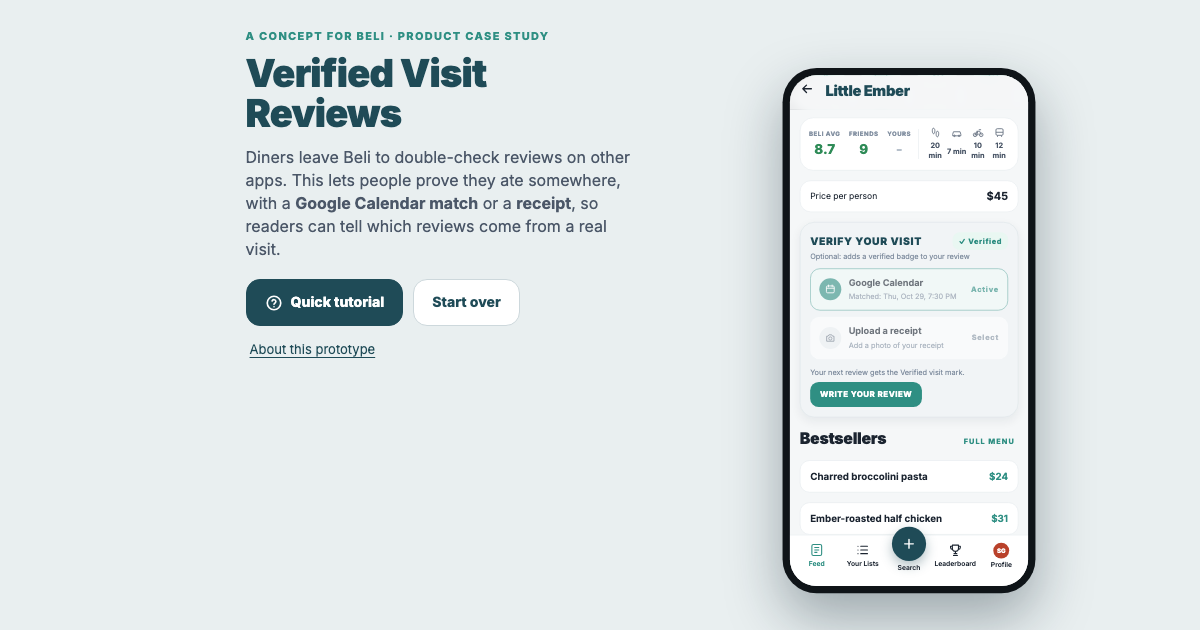
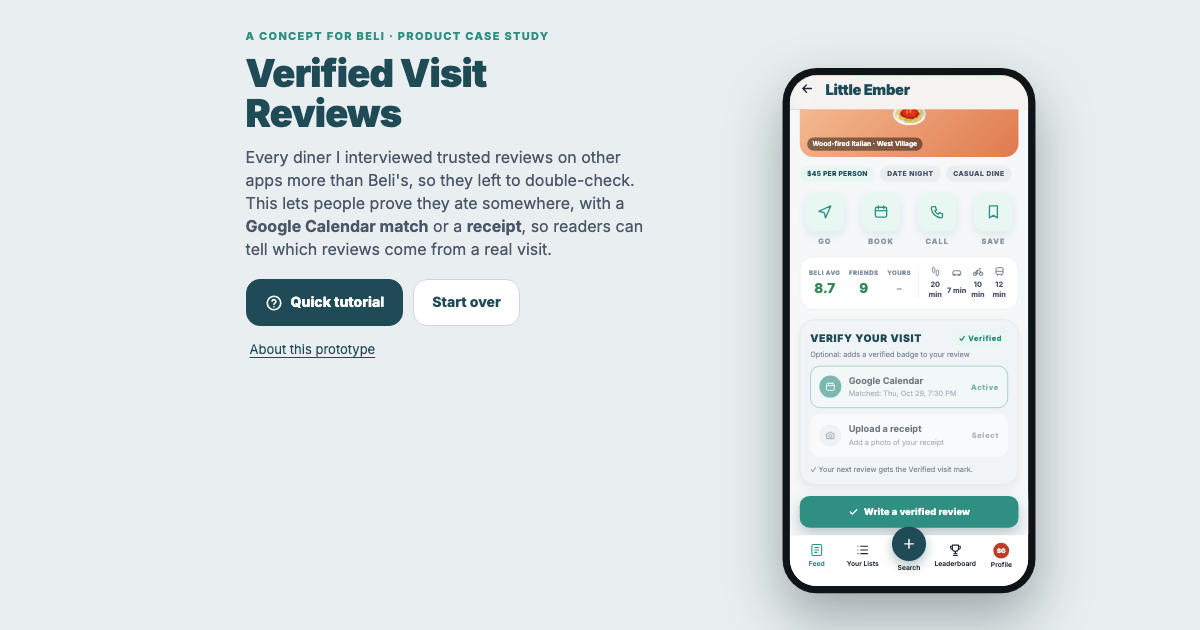
Beli: price in the tag row, always-visible Write a review button

diff --git a/index.html b/index.html
@@ -116,7 +116,11 @@ button:focus-visible, input:focus-visible, textarea:focus-visible, label:focus-w
 .hero { margin: 0 16px; height: 150px; border-radius: 22px; display: grid; place-items: center; font-size: 64px; position: relative; overflow: hidden; }
 .hero small { position: absolute; left: 12px; bottom: 10px; background: rgba(0,0,0,.45); color: #fff; font-size: 11px; font-weight: 600; border-radius: 99px; padding: 3px 9px; }
 .rbody { padding: 14px 16px 24px; display: grid; gap: 16px; }
-.chips { display: flex; gap: 8px; flex-wrap: wrap; }
+.chips { display: flex; gap: 8px; flex-wrap: nowrap; overflow-x: auto; scrollbar-width: none; margin: 0 -16px; padding: 0 16px; }
+.chips::-webkit-scrollbar { display: none; }
+.chip { flex: none; white-space: nowrap; }
+.chip.price-chip { background: var(--mint); color: var(--deep); letter-spacing: .04em; }
+.chip.na-chip { background: #fff; border: 1px dashed #cdd5db; color: var(--muted); }
 .chip { background: #eaeef1; color: #4b5768; border-radius: 99px; padding: 6px 12px; font-size: 11px; font-weight: 800; letter-spacing: .08em; text-transform: uppercase; }
 .sub { color: var(--muted); font-size: 13px; margin: -6px 0 0; }
 .sub b { color: var(--ink); }
@@ -163,6 +167,10 @@ button:focus-visible, input:focus-visible, textarea:focus-visible, label:focus-w
 .tbtn.ghost { background: #fff; color: var(--teal); border: 1px solid var(--mint-2); }
 .skiplink { border: 0; background: none; color: var(--muted); font-size: 12px; text-decoration: underline; padding: 6px 2px 0; }
 
+.rbar { position: sticky; bottom: 0; z-index: 7; padding: 10px 16px 12px; background: linear-gradient(to top, var(--bg) 70%, rgba(245,247,248,0)); }
+.rbtn { width: 100%; border: 0; border-radius: 16px; background: var(--deep); color: #fff; padding: 15px; font-size: 15px; font-weight: 800; letter-spacing: .02em; display: flex; align-items: center; justify-content: center; gap: 8px; box-shadow: 0 10px 22px rgba(31,75,87,.28); }
+.rbtn svg { width: 18px; height: 18px; }
+.rbtn.ok { background: var(--teal); }
 .menu-h { display: flex; justify-content: space-between; align-items: baseline; }
 .menu-h h3 { margin: 0; font-size: 26px; font-weight: 900; letter-spacing: -.02em; }
 .menu-h button { border: 0; background: none; color: var(--teal); font-size: 12px; font-weight: 800; letter-spacing: .14em; }
@@ -522,9 +530,9 @@ function verifyCard(r) {
   const rcRow = '<button class="opt' + (v && !reviewed && v.method === 'receipt' ? ' active' : '') + '" type="button" data-receipt' + (v && !reviewed ? ' disabled' : '') + '><span class="oi">' + IC.cam + '</span><span><b>Upload a receipt</b><small>' + (v && !reviewed && v.method === 'receipt' ? 'Matched: ' + fmt(v.date) : 'Add a photo of your receipt') + '</small></span><span class="act">' + (v && !reviewed && v.method === 'receipt' ? 'Active' : 'Select') + '</span></button>';
   const state = v && !reviewed ? '<span class="state ok">✓ Verified</span>' : '<span class="state">Unverified</span>';
   let after = '';
-  if (v && !reviewed) after = '<div class="after"><small>Your next review gets the Verified visit mark.</small><button class="tbtn" type="button" data-review>Write your review</button></div>';
-  else if (reviewed) after = '<div class="after"><small>✓ Your ' + fmt(v.date) + ' visit is reviewed. Each visit can verify one review.</small></div><button class="skiplink" type="button" data-review>Write another review without verifying</button>';
-  else after = '<button class="skiplink" type="button" data-review>Skip, write a review without verifying</button>';
+  if (v && !reviewed) after = '<div class="after"><small>✓ Your next review gets the Verified visit mark.</small></div>';
+  else if (reviewed) after = '<div class="after"><small>✓ Your ' + fmt(v.date) + ' visit is reviewed. Each visit can verify one review.</small></div>';
+  else after = '';
   return '<div class="verify" id="verify"><div class="head"><h4>Verify your visit</h4>' + state + '</div><p class="vsub">Optional: adds a verified badge to your review</p>' + calRow + rcRow + after + '</div>';
 }
 function renderRest() {
@@ -535,18 +543,21 @@ function renderRest() {
   const yours = mine.length ? { 'Liked it': '8.7', 'It was fine': '5.6', "Didn't like it": '2.3' }[mine[0].rating] : '-';
   $('#v-rest').innerHTML = '<div class="topbar"><button type="button" data-back aria-label="Back">' + IC.back + '</button><h2>' + esc(r.name) + '</h2></div>' +
     '<div class="hero" style="background:' + r.bg + '">' + r.emoji + '<small>' + esc(r.cuisine) + ' · ' + esc(r.hood) + '</small></div>' +
-    '<div class="rbody"><div class="chips">' + r.tags.map((t) => '<span class="chip">' + esc(t) + '</span>').join('') + '</div>' +
+    '<div class="rbody"><div class="chips">' + (r.price ? '<span class="chip price-chip">$' + r.price + ' per person</span>' : '<span class="chip na-chip">Price: data unavailable</span>') + r.tags.map((t) => '<span class="chip">' + esc(t) + '</span>').join('') + '</div>' +
     '<div class="ctas">' + [['go', 'Go'], ['book', 'Book'], ['call', 'Call'], ['save', 'Save']].map(([k, l]) => '<button class="cta" type="button" data-cta="' + k + '"' + (k === 'save' ? ' aria-pressed="' + !!S.saved[r.id] + '"' : '') + '><span class="ic">' + IC[k] + '</span><span class="lb">' + (k === 'save' && S.saved[r.id] ? 'SAVED' : l.toUpperCase()) + '</span></button>').join('') + '</div>' +
     '<div class="stats"><div class="nums"><div><small>BELI AVG</small><b>' + r.score + '</b></div><div><small>FRIENDS</small><b' + (r.friends ? '' : ' class="dim"') + '>' + (r.friends ? Math.round(r.friends) : '-') + '</b></div><div><small>YOURS</small><b' + (mine.length ? '' : ' class="dim"') + '>' + yours + '</b></div></div>' +
     '<div class="modes">' + ['walk', 'car', 'bike', 'bus'].map((m, i) => '<span>' + IC[m] + r.modes[i] + ' min</span>').join('') + '</div></div>' +
-    '<div class="price"><span>Price per person</span>' + (r.price ? '<b>$' + r.price + '</b>' : '<span class="na">Data unavailable</span>') + '</div>' +
     verifyCard(r) +
     '<div class="menu-h"><h3>Bestsellers</h3><button type="button" data-fullmenu>FULL MENU</button></div>' +
     (r.menu ? r.menu.map(([d, p]) => '<div class="dish">' + esc(d) + '<span>$' + p + '</span></div>').join('')
       : '<div class="na-box"><b>Data unavailable.</b> This place hasn\'t shared a menu or price yet. Similar places with full details:<div class="recs">' + r.recs.map((id) => '<button type="button" data-open="' + id + '">' + esc(RB[id].name) + '</button>').join('') + '</div></div>') +
     '<div class="revs-h"><h3>Reviews</h3><small>' + vN + ' of ' + allRev.length + ' from verified visits</small></div>' +
     allRev.map((x) => '<div class="rev"><div class="who">' + avatar(x.by, x.c) + '<span><b>' + esc(x.me ? x.by + ' (you)' : x.by) + '</b><br><small>' + esc(x.r) + ' · ' + fmt(x.date) + '</small></span>' + (x.v ? vmark() : '') + '</div>' + (x.t ? '<p>' + esc(x.t) + '</p>' : '') + (x.m ? revExtras(x.m) : '') + '</div>').join('') +
-    '</div>';
+    '</div>' + reviewBar(r);
+}
+function reviewBar(r) {
+  const v = openVisit(r.id);
+  return '<div class="rbar"><button class="rbtn' + (v ? ' ok' : '') + '" type="button" data-review id="reviewBtn">' + (v ? IC.check + 'Write a verified review' : 'Write a review') + '</button></div>';
 }
 function revExtras(m) {
   const bits = [];
@@ -776,9 +787,9 @@ const D3 = () => daysAgo(3);
 const TOUR = [
   { title: 'Places you may have been', text: 'Beli already reads Google Calendar for reservation-like events. Two dinners matched, so they show up here, ready to verify.',
     setup: () => go('home'), spot: '#places' },
-  { title: 'Verify Your Visit', text: 'On the restaurant page, below Go, Book, Call and Save, the visit can be verified with a <b>calendar match</b> or a <b>receipt</b>. It\'s optional: you can still post a regular review.',
+  { title: 'Verify Your Visit', text: 'On the restaurant page, below Go, Book, Call and Save, the visit can be verified with a <b>calendar match</b> or a <b>receipt</b>. It\'s optional: <b>Write a review</b> at the bottom always works without it.',
     setup: () => go('rest', 'ember'), spot: '#verify' },
-  { title: 'One tap with a calendar match', text: 'The dinner was on the calendar, so one tap verifies it. The card switches to <b>Verified</b>.',
+  { title: 'One tap with a calendar match', text: 'The dinner was on the calendar, so one tap verifies it. The card switches to <b>Verified</b>, and the button at the bottom becomes <b>Write a verified review</b>.',
     setup: () => { S.verif.ember = { method: 'calendar', date: daysAgo(6) }; go('rest', 'ember'); banner('✨ Visit verified via Google Calendar match!'); }, spot: '#verify' },
   { title: 'Proof of Visit, never asked twice', text: 'The review form had an Add Labels field nobody used. <b>Proof of Visit</b> replaces it, and it already shows this visit as verified.',
     setup: () => { S.verif.ember = { method: 'calendar', date: daysAgo(6) }; go('rest', 'ember'); openReview(); ui.draft.rating = 'Liked it'; renderReview(); }, spot: '#proof', sheet: true },

diff --git a/README.md b/README.md
@@ -10,6 +10,8 @@ prove a real visit, so readers can tell which reviews to trust.
 
 **What the prototype does:**
 - **Places you may have been:** visits matched from Google Calendar (simulated), ready to verify.
+- **Write a review** is always one tap away at the bottom of a restaurant page. Once a visit is
+  verified it becomes **Write a verified review**.
 - **Verify Your Visit** on the restaurant page, below Go / Book / Call / Save: one tap with a calendar
   match, or a receipt upload. A clear receipt passes; a blurry one is flagged and the visit stays
   unverified. Receipts and photos are sample images, so nothing is uploaded.
